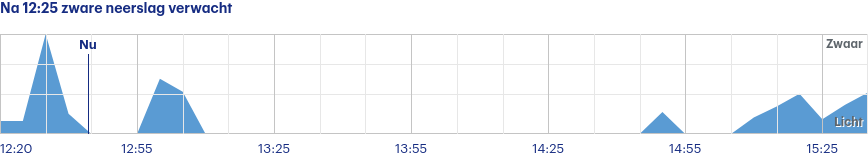
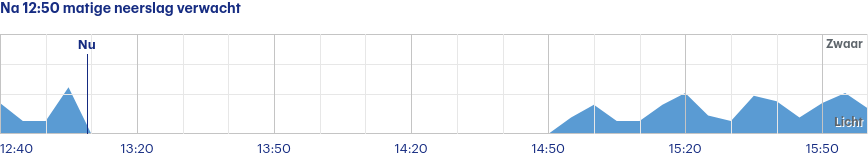
Latest scraping buienradar: Sat Jul 29 11:00:31 UTC 2023

diff --git a/scrapes/buienradar/buienradar-jette-3-uur.md b/scrapes/buienradar/buienradar-jette-3-uur.md
@@ -1,4 +1,4 @@
-Na 12:25 zware neerslag verwacht
+Na 12:50 matige neerslag verwacht
 
 ![](buienradar-jette-3-uur.png)
 
